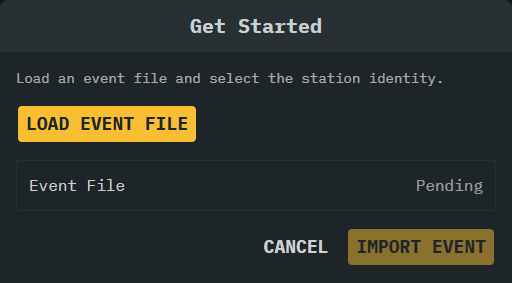
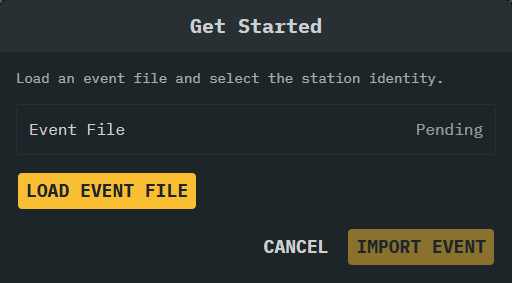
feat: summarize event archive preview

diff --git a/src/main/database/event-archive-db.ts b/src/main/database/event-archive-db.ts
@@ -1,7 +1,13 @@
 import { Readable } from "stream";
 import AdmZip from "adm-zip";
+import { parse } from "csv-parse/sync";
 import { DatabaseStatus } from "$shared/enums";
-import { DatabaseResponse, EventArchivePreview } from "$shared/types";
+import {
+  DatabaseResponse,
+  EventArchiveOpenSplitTimePreview,
+  EventArchivePreview,
+  EventArchivePreviewSummary
+} from "$shared/types";
 import { parseAthletesContent } from "./athlete-db";
 import { createDatabaseFile, resolveUniqueSlug, slugify } from "./connect-db";
 import {
@@ -20,6 +26,26 @@ interface EventArchiveEntries {
   stationsEntry: AdmZip.IZipEntry;
   athletesEntry: AdmZip.IZipEntry;
   dropsEntry: AdmZip.IZipEntry | null;
+}
+
+interface EventArchiveJson {
+  event?: EventArchiveEventJson;
+}
+
+interface EventArchiveEventJson {
+  starttime?: unknown;
+  endtime?: unknown;
+  openSplitTime?: OpenSplitTimeArchiveJson;
+}
+
+interface OpenSplitTimeArchiveJson {
+  production?: OpenSplitTimeArchiveMetadata;
+  staging?: OpenSplitTimeArchiveMetadata;
+}
+
+interface OpenSplitTimeArchiveMetadata {
+  name?: unknown;
+  id?: unknown;
 }
 
 function readEventArchiveEntries(archiveFilePath: string): DatabaseResponse<EventArchiveEntries> {
@@ -45,6 +71,46 @@ function readEventArchiveEntries(archiveFilePath: string): DatabaseResponse<Even
   return [{ stationsEntry, athletesEntry, dropsEntry }, DatabaseStatus.Success, ""];
 }
 
+function countCsvRows(content: Buffer, headerRowCount: number): number {
+  const records = parse(content, {
+    ["relax_column_count"]: true,
+    ["skip_empty_lines"]: true
+  }) as unknown[];
+  return Math.max(records.length - headerRowCount, 0);
+}
+
+function readOpenSplitTimePreview(
+  openSplitTime: OpenSplitTimeArchiveJson | undefined
+): EventArchiveOpenSplitTimePreview[] {
+  return (["production", "staging"] as const).flatMap((environment) => {
+    const metadata = openSplitTime?.[environment];
+    if (typeof metadata?.name !== "string" || typeof metadata.id !== "number") return [];
+
+    return [{ environment, name: metadata.name, id: metadata.id }];
+  });
+}
+
+function readEventArchiveSummary(
+  stationsJson: string,
+  stations: EventArchivePreview["stations"],
+  entries: EventArchiveEntries
+): EventArchivePreviewSummary {
+  const archive = JSON.parse(stationsJson) as EventArchiveJson;
+  const startStation = stations[0];
+  const finishStation = stations.at(-1);
+
+  return {
+    startTime: typeof archive.event?.starttime === "string" ? archive.event.starttime : undefined,
+    endTime: typeof archive.event?.endtime === "string" ? archive.event.endtime : undefined,
+    courseDistance: finishStation?.distance,
+    startStationName: startStation?.name,
+    finishStationName: finishStation?.name,
+    athleteCount: countCsvRows(entries.athletesEntry.getData(), 1),
+    dropCount: entries.dropsEntry ? countCsvRows(entries.dropsEntry.getData(), 2) : 0,
+    openSplitTime: readOpenSplitTimePreview(archive.event?.openSplitTime)
+  };
+}
+
 export function previewEventArchiveFile(
   archiveFilePath: string
 ): DatabaseResponse<EventArchivePreview> {
@@ -55,9 +121,10 @@ export function previewEventArchiveFile(
     const stationsJson = entries.stationsEntry.getData().toString("utf-8");
     const eventName = readEventNameFromStationsContent(stationsJson);
     const stations = previewStationsContent(stationsJson);
+    const summary = readEventArchiveSummary(stationsJson, stations, entries);
 
     return [
-      { archiveFilePath, eventName, stations },
+      { archiveFilePath, eventName, stations, summary },
       DatabaseStatus.Success,
       `Loaded event file "${eventName}"`
     ];

diff --git a/src/renderer/src/features/EventManager/GetStartedWizard.tsx b/src/renderer/src/features/EventManager/GetStartedWizard.tsx
@@ -32,6 +32,7 @@ export function GetStartedWizard({ open, setOpen }: GetStartedWizardProps) {
   const [running, setRunning] = useState(false);
   const archiveLoaded = progress === "success" && archivePreview !== null;
   const stations = archivePreview?.stations ?? [];
+  const summary = archivePreview?.summary;
   const selectedStationId = identityForm.watch("identifier");
   const selectedCallsign = identityForm.watch("callsign");
   const currentOperators = stations.find(
@@ -136,6 +137,52 @@ export function GetStartedWizard({ open, setOpen }: GetStartedWizardProps) {
       <form onSubmit={handleStart} className="space-y-4 text-on-component">
         <p className="text-sm opacity-80">Load an event file and select the station identity.</p>
 
+        <div className="rounded border border-component-strong px-3">
+          <EventImportProgressRow label="Event File" status={progress} />
+          {archiveLoaded && summary ? (
+            <div className="grid gap-2 pb-3 pt-1 text-sm sm:grid-cols-3">
+              <div className="sm:col-span-3">
+                <div className="font-medium">Name: {archivePreview.eventName}</div>
+                <div className="text-xs opacity-80">
+                  {summary.courseDistance !== undefined && (
+                    <span>{summary.courseDistance} mi </span>
+                  )}
+                  {(summary.startStationName || summary.finishStationName) && (
+                    <span>
+                      {[summary.startStationName, summary.finishStationName]
+                        .filter(Boolean)
+                        .join(" -> ")}
+                    </span>
+                  )}
+                </div>
+                {(summary.startTime || summary.endTime) && (
+                  <div className="text-xs opacity-70">
+                    {[summary.startTime, summary.endTime].filter(Boolean).join(" to ")}
+                  </div>
+                )}
+              </div>
+              {[
+                ["Stations", stations.length],
+                ["Athletes", summary.athleteCount],
+                ["Drops", summary.dropCount]
+              ].map(([label, value]) => (
+                <div key={label} className="rounded border border-component px-2 py-1">
+                  <div className="text-base font-semibold leading-tight">{value}</div>
+                  <div className="text-xs opacity-70">{label}</div>
+                </div>
+              ))}
+              <div className="flex flex-wrap gap-x-4 gap-y-1 text-xs opacity-80 sm:col-span-3">
+                {summary.openSplitTime.map((openSplitTime) => (
+                  <span key={openSplitTime.environment}>
+                    OpenSplitTime {openSplitTime.environment}: {openSplitTime.name} (#
+                    {openSplitTime.id})
+                  </span>
+                ))}
+              </div>
+            </div>
+          ) : null}
+        </div>
+
         {archiveLoaded ? (
           <>
             <Select
@@ -169,10 +216,6 @@ export function GetStartedWizard({ open, setOpen }: GetStartedWizardProps) {
             {running ? "Loading..." : "Load Event File"}
           </Button>
         )}
-
-        <div className="rounded border border-component-strong px-3">
-          <EventImportProgressRow label="Event File" status={progress} />
-        </div>
 
         {Object.values(identityForm.formState.errors).map((error) => (
           <p key={error.message} className="text-sm text-danger">

diff --git a/src/main/database/tests/event-archive-db.test.ts b/src/main/database/tests/event-archive-db.test.ts
@@ -43,7 +43,18 @@ vi.mock("../../lib/file-dialogs", () => ({ selectEventArchiveFile }));
 
 function makeArchive(
   entries: Record<string, string> = {
-    "stations.json": '{"event":{"name":"Bear 100"},"stations":[]}',
+    "stations.json": JSON.stringify({
+      event: {
+        name: "Bear 100",
+        starttime: "06:00:00 Sept 25 2026",
+        endtime: "18:00:00 Sept 26 2026",
+        openSplitTime: {
+          production: { name: "the-bear-100-2026", id: 1344 },
+          staging: { name: "bear-100-test", id: 75 }
+        }
+      },
+      stations: []
+    }),
     "athletes.csv": "header\n1,Ada,Lovelace,F,36,London,UK,Charles,5551234\n",
     "drops.csv": "title\nheader\n1-start,101,withdrew,2026-09-01T06:00:00Z,\n"
   },
@@ -69,7 +80,10 @@ describe("event-archive-db", () => {
     parseDropsContent.mockResolvedValue("drops imported");
     selectEventArchiveFile.mockResolvedValue(undefined);
     stations.readEventNameFromStationsContent.mockReturnValue("Bear 100");
-    stations.previewStationsContent.mockReturnValue([{ identifier: "3-hardware" }] as never);
+    stations.previewStationsContent.mockReturnValue([
+      { identifier: "0-start", name: "Start Line", distance: 0 },
+      { identifier: "12-finish", name: "Finish Line", distance: 100 }
+    ] as never);
     connect.resolveUniqueSlug.mockImplementation((slug: string) => slug);
   });
 
@@ -84,8 +98,36 @@ describe("event-archive-db", () => {
       const [preview, status] = previewEventArchiveFile(archive);
 
       expect(status).toBe(DatabaseStatus.Success);
-      expect(preview).toMatchObject({ archiveFilePath: archive, eventName: "Bear 100" });
+      expect(preview).toMatchObject({
+        archiveFilePath: archive,
+        eventName: "Bear 100",
+        summary: {
+          startTime: "06:00:00 Sept 25 2026",
+          endTime: "18:00:00 Sept 26 2026",
+          startStationName: "Start Line",
+          finishStationName: "Finish Line",
+          courseDistance: 100,
+          athleteCount: 1,
+          dropCount: 1,
+          openSplitTime: [
+            { environment: "production", name: "the-bear-100-2026", id: 1344 },
+            { environment: "staging", name: "bear-100-test", id: 75 }
+          ]
+        }
+      });
       expect(connect.createDatabaseFile).not.toHaveBeenCalled();
+    });
+
+    it("previews an archive with no drops file as zero drops", () => {
+      const archive = makeArchive({
+        "stations.json": '{"event":{"name":"Bear 100"},"stations":[]}',
+        "athletes.csv": "header\n1,Ada,Lovelace,F,36,London,UK,Charles,5551234\n"
+      });
+
+      const [preview, status] = previewEventArchiveFile(archive);
+
+      expect(status).toBe(DatabaseStatus.Success);
+      expect(preview?.summary.dropCount).toBe(0);
     });
 
     it("reports an unreadable archive", () => {

diff --git a/src/shared/types.ts b/src/shared/types.ts
@@ -16,10 +16,28 @@ export interface SetStationIdentityParams {
   moveTimingRecords?: boolean;
 }
 
+export interface EventArchiveOpenSplitTimePreview {
+  environment: "production" | "staging";
+  name: string;
+  id: number;
+}
+
+export interface EventArchivePreviewSummary {
+  startTime?: string;
+  endTime?: string;
+  courseDistance?: number;
+  startStationName?: string;
+  finishStationName?: string;
+  athleteCount: number;
+  dropCount: number;
+  openSplitTime: EventArchiveOpenSplitTimePreview[];
+}
+
 export interface EventArchivePreview {
   archiveFilePath: string;
   eventName: string;
   stations: Station[];
+  summary: EventArchivePreviewSummary;
 }
 
 export interface DropsImportStatusValue {

diff --git a/src/renderer/src/features/EventManager/EventImportProgressRow.tsx b/src/renderer/src/features/EventManager/EventImportProgressRow.tsx
@@ -9,7 +9,7 @@ export function EventImportProgressRow({ label, status }: EventImportProgressRow
   const statusText = {
     pending: "Pending",
     working: "Loading...",
-    success: "Complete",
+    success: "Ready",
     error: "Failed"
   }[status];
 

diff --git a/README.md b/README.md
@@ -47,6 +47,31 @@ On first launch, Ultra-Tracker opens **Getting Started** to guide the user throu
 
 1. Select **Load Event File** and choose the event file (`.zip`) supplied for the event.
 2. Select the station identifier for this computer.
+3. Select the operator callsign.
+4. Select **Import Event**. When the import finishes, go to the Stats page to begin logging.
+
+The event files can be selected from their existing location; they do not need to be copied into a special folder first. The default event-config folder is `\Documents\Ultra-Tracker\.event-config\`. Additional Drops files can be imported later from the Settings page.
+
+The **Event Manager** can be launched in the sidebar to manage current and previous events. Selecting **Create New Event** launches the **Getting Started** wizard.
+
+The wizard carries the operator through the minimum setup needed to start tracking: load the event file, choose the station, pick the operator callsign, and import the event.
+
+<table border="0" cellpadding="0" cellspacing="12" width="100%">
+  <tr>
+    <td align="center" width="33%">
+      <img alt="Getting Started step 1" src="src/renderer/public/img/UI/getting-started-1.png" width="300" /><br>
+      <em>Select an event file</em>
+    </td>
+    <td align="center" width="33%">
+      <img alt="Getting Started step 2" src="src/renderer/public/img/UI/getting-started-2.png" width="300" /><br>
+      <em>Select the station and operator</em>
+    </td>
+    <td align="center" width="33%">
+      <img alt="Getting Started step 3" src="src/renderer/public/img/UI/getting-started-3.png" width="300" /><br>
+      <em>Import the event and begin timing</em>
+    </td>
+  </tr>
+</table>
 
 ## Stats Page
 
